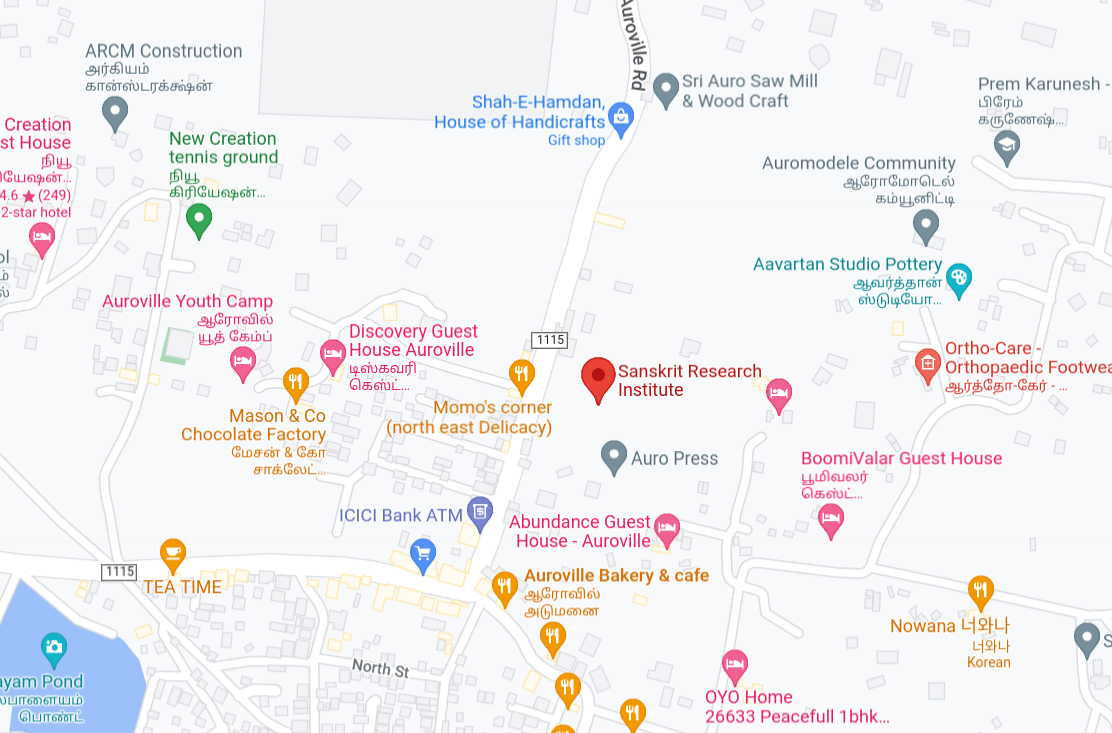
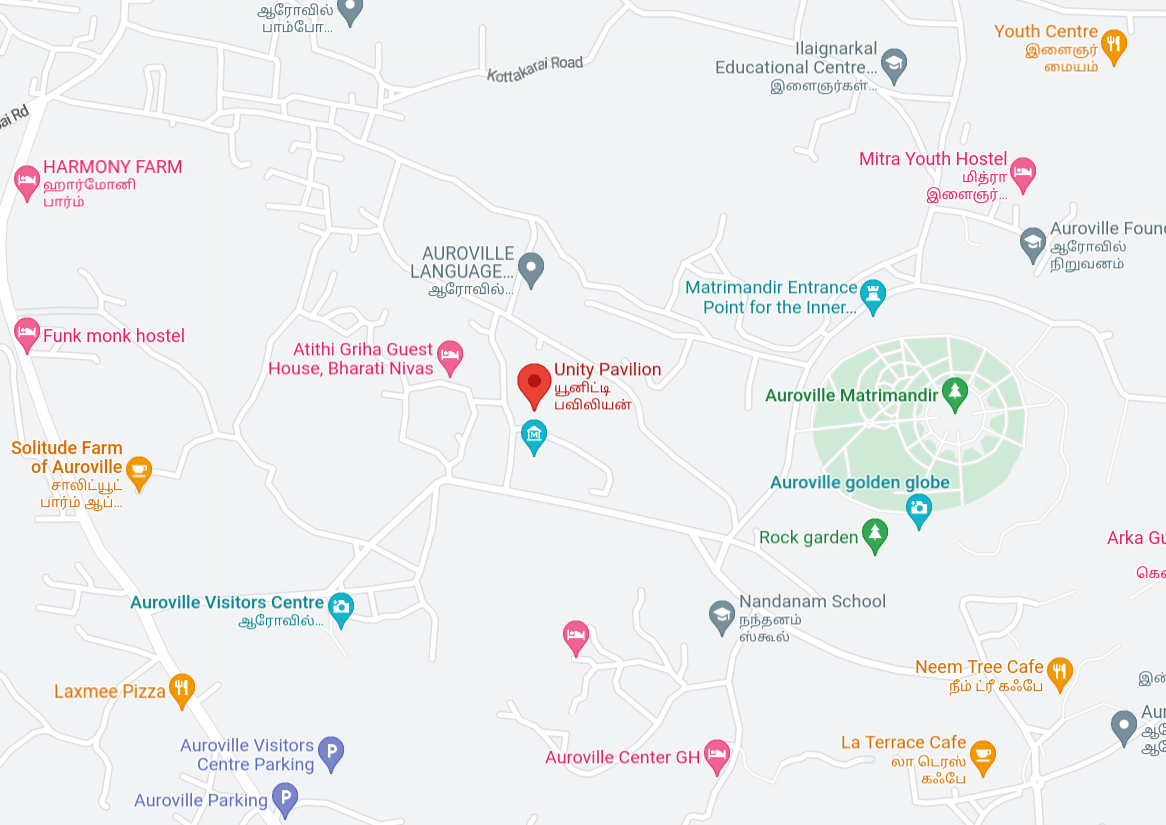
feat: update venue
* add venue related information
* update directions image
* add live stream links

diff --git a/docs/program.html b/docs/program.html
@@ -172,7 +172,7 @@ aria-controls="navbar-with-toggle" aria-expanded="false" aria-label="Toggle navi
 </li>
 <li class="nav-item active">
 <a class="nav-link m-1" href="./program.html">
-<strong>Programs</strong>
+<strong>Program</strong>
 <span class="sr-only">(current)</span>
 </a>
 </li>
@@ -196,8 +196,35 @@ aria-controls="navbar-with-toggle" aria-expanded="false" aria-label="Toggle navi
 </header>
 <div class="row mt-xs-0 mt-sm-0 mt-md-1 mt-lg-2 mt-xl-2 mb-xs-2 mb-sm-2">
 <div class="col-xs-12 col-sm-12 col-md-12 col-lg-12 col-xl-10 offset-xl-1 ">
-<div class="row">
-<div class="col-xs-12 col-sm-12 col-md-12 col-lg-10 offset-lg-1 col-xl-10 offset-xl-1">
+<div class="row mt-xs-0 mt-sm-0 my-2">
+<div class="col conference-text">
+<h6 class="text-info">Online</h6>
+<p>
+The conference will be streamed live and recorded for each day.
+<br>
+The event can be accessed online at: <a href="https://www.youtube.com/@SanskritResearchInstitute/streams">https://www.youtube.com/@SanskritResearchInstitute/streams</a>
+</p>
+<p>
+<table class="table">
+<tr>
+<th>Stream</th>
+<th>Link</th>
+</tr>
+<tr>
+<td>Day 1</td>
+<td><a href="https://www.youtube.com/watch?v=W-SOlU26M58&ab_channel=SanskritResearchInstitute">https://www.youtube.com/watch?v=W-SOlU26M58&ab_channel=SanskritResearchInstitute</a></td>
+</tr>
+<tr>
+<td>Day 2</td>
+<td><a href="https://www.youtube.com/watch?v=8IpQ1tCPDmw&ab_channel=SanskritResearchInstitute">https://www.youtube.com/watch?v=8IpQ1tCPDmw&ab_channel=SanskritResearchInstitute</a></td>
+</tr>
+<tr>
+<td>Day 3</td>
+<td><a href="https://www.youtube.com/watch?v=n1SPshTzcbg&ab_channel=SanskritResearchInstitute">https://www.youtube.com/watch?v=n1SPshTzcbg&ab_channel=SanskritResearchInstitute</a></td>
+</tr>
+</table>
+</p>
+<h6 class="text-info">Schedule</h6>
 <div class="alert alert-warning rounded text-center mx-3 my-5">
 TBA
 </div>
@@ -222,7 +249,7 @@ iscls@outlook.com
 &copy; ISCLS.
 </div>
 <div class="text-muted font-italic font-weight-light small pull-left pb-3">
-Last updated: February 20, 2023, 16:32:02.
+Last updated: March 24, 2023, 12:34:33.
 </div>
 </footer>
 </div>

diff --git a/docs/venue.html b/docs/venue.html
@@ -172,7 +172,7 @@ aria-controls="navbar-with-toggle" aria-expanded="false" aria-label="Toggle navi
 </li>
 <li class="nav-item">
 <a class="nav-link m-1" href="./program.html">
-<strong>Programs</strong>
+<strong>Program</strong>
 </a>
 </li>
 <li class="nav-item active">
@@ -206,18 +206,21 @@ India
 </p>
 <h6 class="text-info">Conference Location</h6>
 <p>
-Sanskrit Research Institute, Auroville, Puducherry, India
+<a href="https://www.unitypavilion.in/">Unity Pavilion</a>,
+Auroville, Puducherry,
+India
 </p>
 <h6 class="text-info">Accommodations</h6>
 <p>
-TBA
+<p>
+You may find information about guesthouses at <a href="https://guesthouses.auroville.org/">https://guesthouses.auroville.org/</a>.
+</p><p>
+Travel desk at Sanskrit Research Institute is reachable at: <a href="mailto:iscls@sri.auroville.org">iscls@sri.auroville.org</a>
 </p>
-<ul>
-<li><b>TBA</b> (TBA)</li>
-</ul>
+</p>
 <h6 class="text-info">Directions</h6>
 <p>
-TBA
+Google Maps Location: <a href="https://goo.gl/maps/D9obMuDHke8EZHtNA">https://goo.gl/maps/D9obMuDHke8EZHtNA</a>
 </p>
 <img class="img-fluid" src="./assets/images/direction.png" alt="direction">
 </div>
@@ -231,7 +234,7 @@ TBA
 &copy; ISCLS.
 </div>
 <div class="text-muted font-italic font-weight-light small pull-left pb-3">
-Last updated: February 20, 2023, 16:32:02.
+Last updated: March 24, 2023, 12:34:33.
 </div>
 </footer>
 </div>

diff --git a/docs/history.html b/docs/history.html
@@ -172,7 +172,7 @@ aria-controls="navbar-with-toggle" aria-expanded="false" aria-label="Toggle navi
 </li>
 <li class="nav-item">
 <a class="nav-link m-1" href="./program.html">
-<strong>Programs</strong>
+<strong>Program</strong>
 </a>
 </li>
 <li class="nav-item">
@@ -229,7 +229,7 @@ Peter Scharf, Director of the International Digital Sanskrit Library Integration
 &copy; ISCLS.
 </div>
 <div class="text-muted font-italic font-weight-light small pull-left pb-3">
-Last updated: February 20, 2023, 16:32:02.
+Last updated: March 24, 2023, 12:34:33.
 </div>
 </footer>
 </div>

diff --git a/docs/organization.html b/docs/organization.html
@@ -173,7 +173,7 @@ aria-controls="navbar-with-toggle" aria-expanded="false" aria-label="Toggle navi
 </li>
 <li class="nav-item">
 <a class="nav-link m-1" href="./program.html">
-<strong>Programs</strong>
+<strong>Program</strong>
 </a>
 </li>
 <li class="nav-item">
@@ -390,7 +390,7 @@ aria-controls="navbar-with-toggle" aria-expanded="false" aria-label="Toggle navi
 &copy; ISCLS.
 </div>
 <div class="text-muted font-italic font-weight-light small pull-left pb-3">
-Last updated: February 20, 2023, 16:32:02.
+Last updated: March 24, 2023, 12:34:33.
 </div>
 </footer>
 </div>

diff --git a/docs/cfp.html b/docs/cfp.html
@@ -173,7 +173,7 @@ aria-controls="navbar-with-toggle" aria-expanded="false" aria-label="Toggle navi
 </li>
 <li class="nav-item">
 <a class="nav-link m-1" href="./program.html">
-<strong>Programs</strong>
+<strong>Program</strong>
 </a>
 </li>
 <li class="nav-item">
@@ -308,7 +308,7 @@ The areas of interest include, but are not limited to:
 &copy; ISCLS.
 </div>
 <div class="text-muted font-italic font-weight-light small pull-left pb-3">
-Last updated: February 20, 2023, 16:32:02.
+Last updated: March 24, 2023, 12:34:33.
 </div>
 </footer>
 </div>

diff --git a/docs/registration.html b/docs/registration.html
@@ -172,7 +172,7 @@ aria-controls="navbar-with-toggle" aria-expanded="false" aria-label="Toggle navi
 </li>
 <li class="nav-item">
 <a class="nav-link m-1" href="./program.html">
-<strong>Programs</strong>
+<strong>Program</strong>
 </a>
 </li>
 <li class="nav-item">
@@ -232,7 +232,7 @@ iscls@outlook.com
 &copy; ISCLS.
 </div>
 <div class="text-muted font-italic font-weight-light small pull-left pb-3">
-Last updated: February 20, 2023, 16:32:02.
+Last updated: March 24, 2023, 12:34:33.
 </div>
 </footer>
 </div>

diff --git a/docs/submission.html b/docs/submission.html
@@ -173,7 +173,7 @@ aria-controls="navbar-with-toggle" aria-expanded="false" aria-label="Toggle navi
 </li>
 <li class="nav-item">
 <a class="nav-link m-1" href="./program.html">
-<strong>Programs</strong>
+<strong>Program</strong>
 </a>
 </li>
 <li class="nav-item">
@@ -312,7 +312,7 @@ January 8, 2024.
 &copy; ISCLS.
 </div>
 <div class="text-muted font-italic font-weight-light small pull-left pb-3">
-Last updated: February 20, 2023, 16:32:02.
+Last updated: March 24, 2023, 12:34:33.
 </div>
 </footer>
 </div>

diff --git a/docs/index.html b/docs/index.html
@@ -173,7 +173,7 @@ aria-controls="navbar-with-toggle" aria-expanded="false" aria-label="Toggle navi
 </li>
 <li class="nav-item">
 <a class="nav-link m-1" href="./program.html">
-<strong>Programs</strong>
+<strong>Program</strong>
 </a>
 </li>
 <li class="nav-item">
@@ -276,7 +276,7 @@ TBA
 &copy; ISCLS.
 </div>
 <div class="text-muted font-italic font-weight-light small pull-left pb-3">
-Last updated: February 20, 2023, 16:32:02.
+Last updated: March 24, 2023, 12:34:33.
 </div>
 </footer>
 </div>
